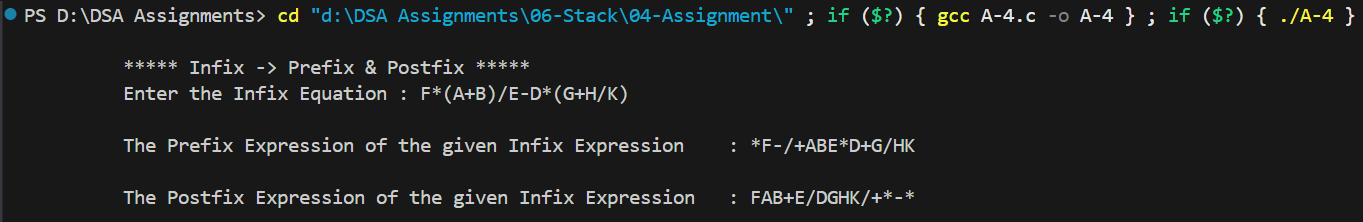
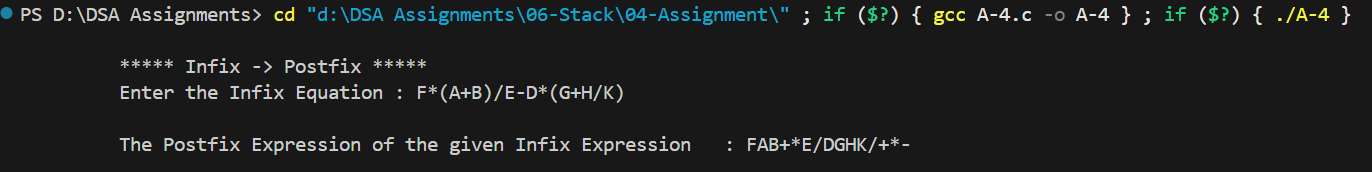
Stack Assignment No. 4

diff --git a/06-Stack/04-Assignment/A-4.c b/06-Stack/04-Assignment/A-4.c
@@ -1,9 +1,9 @@
 /*
-    A-4 -> Write the code to covert the below expression from Infix to Prefix and Postfix 
+    A-4 -> Write the code to covert the below expression from Infix to Postfix 
 */
 
 /* 
-    Input ->  F*(A+B)/E-D*(G+H/K)                      
+    Input ->  F*(A+B)/E-D*(G+H/K)                     
 */
 
 #include<stdio.h>
@@ -11,19 +11,16 @@
 
 int precedence(char,char);
 int priority(char);
-char* operandPrefixStack(char[][30],int*,char);
 char* operandPostfixStack(char[][30],int*,char);
 
 int main() {
     int stk = -1;
-    int prefix = -1;
     int postfix = -1;
     char arr[30];
     char stkOperator[10];
-    char stkPrefixOperand[10][30];
     char stkPostfixOperand[10][30];
 
-    printf("\n\t ***** Infix -> Prefix & Postfix *****");
+    printf("\n\t ***** Infix -> Postfix *****");
     printf("\n\t Enter the Infix Equation : ");
     scanf("%s",arr);
 
@@ -37,7 +34,6 @@ int main() {
             }
             if (arr[i] == ')') {
                 while (stkOperator[stk] != '(') {
-                    strcpy(stkPrefixOperand[prefix],operandPrefixStack(stkPrefixOperand,&prefix,stkOperator[stk]));
                     strcpy(stkPostfixOperand[postfix],operandPostfixStack(stkPostfixOperand,&postfix,stkOperator[stk]));
                     stk--;
                 }
@@ -46,7 +42,6 @@ int main() {
             if (arr[i] == '+' || arr[i] == '-' || arr[i] == '/' || arr[i] == '*' || arr[i] == '^') {
                 if (stkOperator[stk] == '+' || stkOperator[stk] == '-' || stkOperator[stk] == '*' || stkOperator[stk] == '/' || stkOperator[stk] == '^') {
                     if (precedence(arr[i],stkOperator[stk])) {
-                        strcpy(stkPrefixOperand[prefix],operandPrefixStack(stkPrefixOperand,&prefix,stkOperator[stk]));
                         strcpy(stkPostfixOperand[postfix],operandPostfixStack(stkPostfixOperand,&postfix,stkOperator[stk]));
                         stkOperator[stk] = arr[i];
                     } else {
@@ -59,20 +54,17 @@ int main() {
                 }
             }
         } else {
-            strcpy(stkPrefixOperand[prefix],operandPrefixStack(stkPrefixOperand,&prefix,arr[i]));
             strcpy(stkPostfixOperand[postfix],operandPostfixStack(stkPostfixOperand,&postfix,arr[i]));
         }
     }
     while (stk != -1) {
         if (stkOperator[stk] != '(' && stk >= 0) {
-            strcpy(stkPrefixOperand[prefix],operandPrefixStack(stkPrefixOperand,&prefix,stkOperator[stk]));
             strcpy(stkPostfixOperand[postfix],operandPostfixStack(stkPostfixOperand,&postfix,stkOperator[stk]));
             stk--;
         }
     }
     
-    printf("\n\t The Prefix Expression of the given Infix Expression \t: %s",stkPrefixOperand[prefix]);
-    printf("\n\n\t The Postfix Expression of the given Infix Expression \t: %s\n\n",stkPostfixOperand[postfix]);
+    printf("\n\t The Postfix Expression of the given Infix Expression : %s\n\n",stkPostfixOperand[postfix]);
 
     return 0;
 }
@@ -89,33 +81,15 @@ int precedence(char i,char j) {
 int priority(char ch) {
     int p;
     if (ch == '+' || ch == '-') p = 1;
-    if (ch == '*' || ch == '/') p = 2;
+    if (ch == '*' || ch == '/' || ch == '%') p = 2;
     if (ch == '^')  p = 3;  
     return p;
-}
-
-char* operandPrefixStack(char stkPrefixOperand[][30],int *prefix,char i) {
-    char temp[2] = {i,'\0'};
-    char string[30];
-    if (i == '+' || i == '-' || i == '*' || i == '/' || i == '^') {
-        strcpy(string,temp);
-        (*prefix)--;
-        strcat(string,stkPrefixOperand[(*prefix)]);
-        (*prefix)++;
-        strcat(string,stkPrefixOperand[(*prefix)]);
-        (*prefix)--;
-        strcpy(stkPrefixOperand[(*prefix)],string);
-    } else {
-        (*prefix)++;
-        strcpy(stkPrefixOperand[(*prefix)],temp);
-    }
-    return stkPrefixOperand[(*prefix)];
 }
 
 char* operandPostfixStack(char stkPostfixOperand[][30],int *postfix,char i) {
     char temp[2] = {i,'\0'};
     char string[30];
-    if (i == '+' || i == '-' || i == '*' || i == '/') {
+    if (i == '+' || i == '-' || i == '*' || i == '/' || i == '^' || i == '%') {
         (*postfix)--;
         strcpy(string,stkPostfixOperand[(*postfix)]);
         (*postfix)++;
@@ -131,10 +105,9 @@ char* operandPostfixStack(char stkPostfixOperand[][30],int *postfix,char i) {
 }
 
 /*
-    Output ->   ***** Infix -> Prefix & Postfix *****
+    Output ->    
+                ***** Infix -> Postfix *****
                 Enter the Infix Equation : F*(A+B)/E-D*(G+H/K)
 
-                The Prefix Expression of the given Infix Expression    : *F-/+ABE*D+G/HK
-
-                The Postfix Expression of the given Infix Expression   : FAB+E/DGHK/+*-*                            
+                The Postfix Expression of the given Infix Expression : FAB+*E/DGHK/+*-                    
 */
